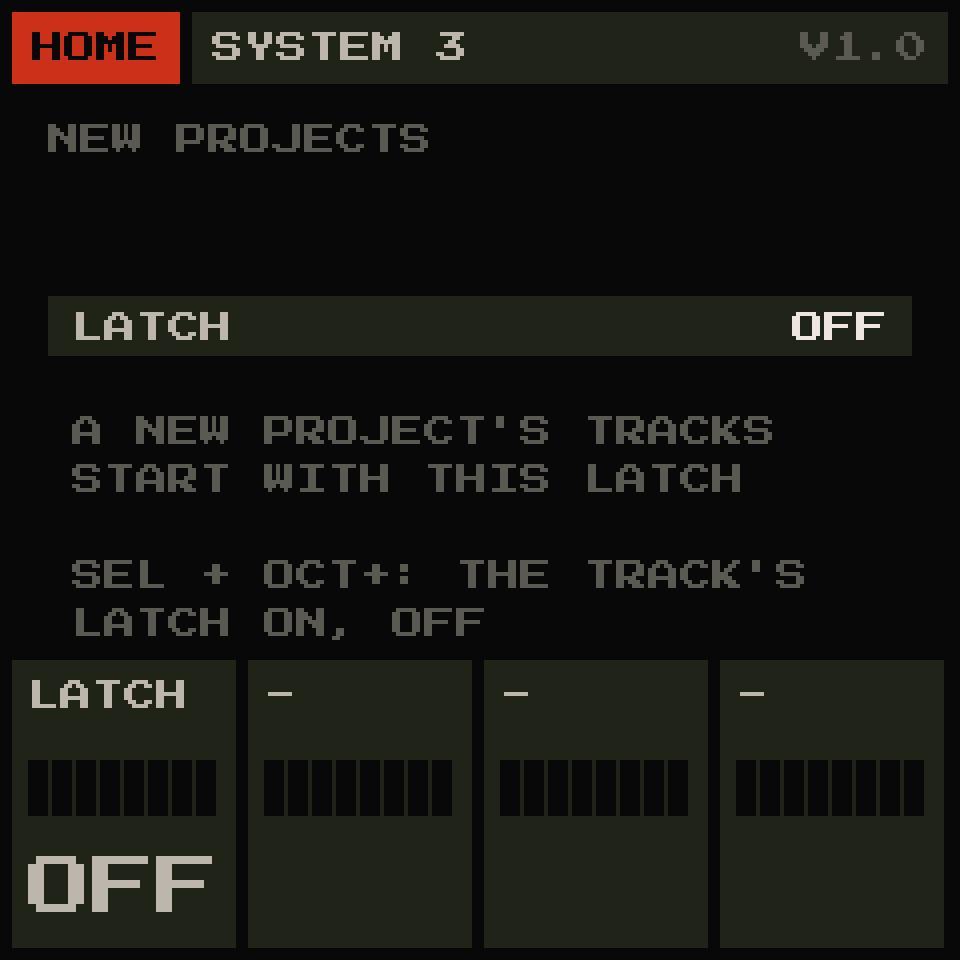
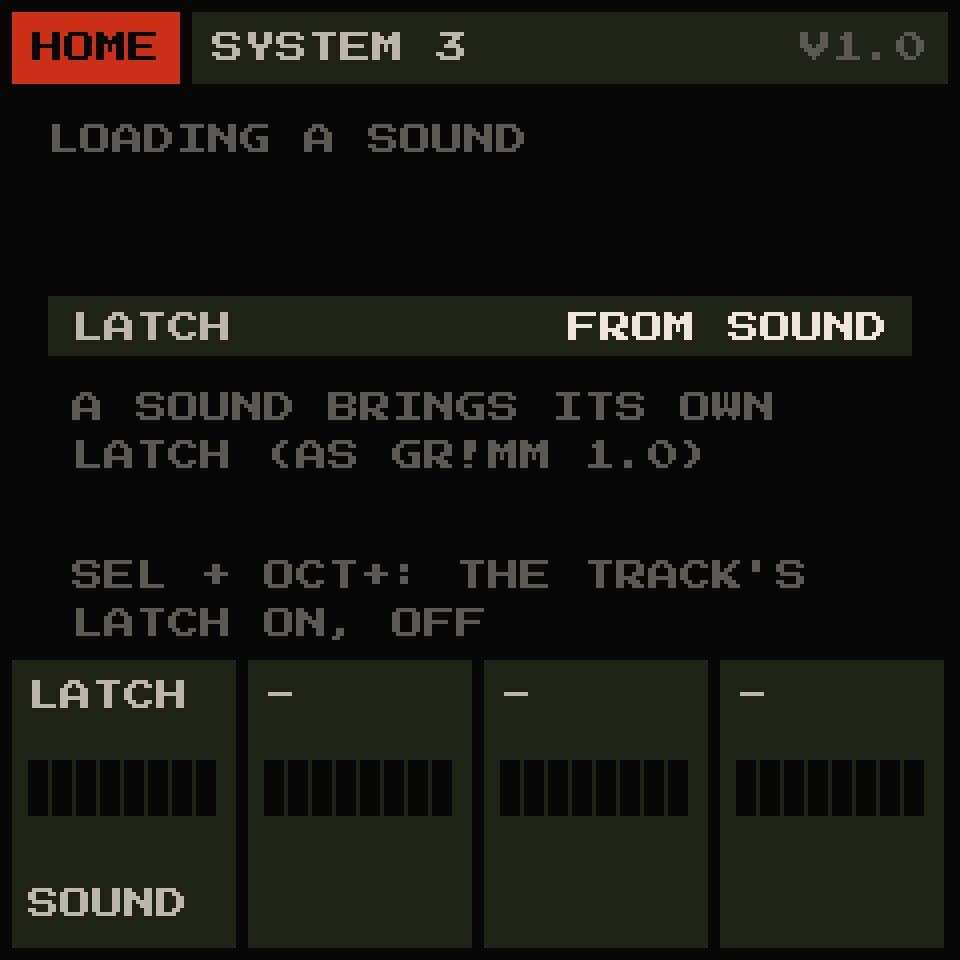
SYSTEM 3's LATCH: FROM SOUND / ALWAYS OFF (loading a sound never changes LATCH)
As asked: not a LATCH for NEW projects but what loading a sound does.
FROM SOUND (the default, as 1.0): a sound loaded brings the LATCH it was
saved with. ALWAYS OFF: loading a sound (PRESETS, SOUNDS' LOAD, the
editor's LOAD TO T1-T4) leaves the track's LATCH as it is, off unless
SEL + OCT+ latched it by hand. NEW is as in 1.0 again (tracks unlatched);
projects and slots keep what they were saved with. Settings byte 169: 0
FROM SOUND, 1 ALWAYS OFF; older settings load as FROM SOUND. SYSTEM 3's
screen, the editor page's SETTINGS, the manual and protocol to match.

diff --git a/web/editor.html b/web/editor.html
@@ -221,13 +221,14 @@ a.lnk { color: var(--l); }
       <div class="row"><button id="b-setread" class="go">READ FROM FM-1</button><button id="b-setwrite">WRITE TO FM-1</button></div>
       <div class="row"><label class="px" for="set-mch">MIDI CHANNEL</label><select id="set-mch"></select></div>
       <div class="row"><label class="px" for="set-clk">CLOCK</label><select id="set-clk"></select></div>
-      <div class="row"><label class="px" for="set-latch">LATCH (NEW PROJECTS)</label><select id="set-latch"></select></div>
+      <div class="row"><label class="px" for="set-latch">LATCH</label><select id="set-latch"></select></div>
       <p class="note">The FM-1's own settings (SYSTEM, SYSTEM 2, SYSTEM 3), not the project's. MIDI CHANNEL: 1-4 puts T1–T4 on
         channels 1–4 (up to 13-16); ALL &gt; SEL plays every channel on the selected track; CH n &gt; SEL plays only
         channel n on the selected track and ignores the others. CLOCK: INT, the FM-1's own tempo; INT+OUT, the same
         and its MIDI clock out over USB (START, STOP and 24 pulses a beat); USB or TRS, it follows the MIDI clock from
-        there (START, CONTINUE, STOP; the jack is MIDI IN only). LATCH: OFF or ON for the four tracks of a NEW project
-        (a sound you load brings its own LATCH). The same on the FM-1: SYSTEM's KNOB 2, SYSTEM 2's KNOB 4, SYSTEM 3's
+        there (START, CONTINUE, STOP; the jack is MIDI IN only). LATCH: FROM SOUND, a sound you load brings its own
+        LATCH (as GR!MM 1.0); ALWAYS OFF, loading a sound never changes a track's LATCH (it stays off unless you latch the
+        track by hand, SEL + OCT+). The same on the FM-1: SYSTEM's KNOB 2, SYSTEM 2's KNOB 4, SYSTEM 3's
         KNOB 1. READ first; WRITE changes only these three (the FM-1 stopped and silent). GR!MM 1.0 has no CLOCK, and
         no LATCH setting.</p>
     </section>

diff --git a/web/editor.js b/web/editor.js
@@ -777,7 +777,7 @@ function drawSettings() {
   m.textContent = c.textContent = l.textContent = "";
   MCH_NAMES.forEach((n, i) => { if (v2 || i <= 13) el("option", { value: i }, m, n); });
   CLOCK_NAMES.forEach((n, i) => el("option", { value: i }, c, n));
-  ["OFF", "ON"].forEach((n, i) => el("option", { value: i }, l, n));
+  ["FROM SOUND", "ALWAYS OFF"].forEach((n, i) => el("option", { value: i }, l, n));
   if (setBytes) { const s = settingsOf(setBytes); m.value = s.mch; c.value = s.clk; l.value = s.latch; }
   refreshButtons();
 }
@@ -794,7 +794,7 @@ $("b-setwrite").onclick = () => job("SETTINGS", async () => {
   setBytes = back;
   drawSettings();
   return `SETTINGS WRITTEN: MIDI CHANNEL ${MCH_NAMES[b[3]]}${b.length > SET_V1 ? ", CLOCK " + CLOCK_NAMES[b[SET_V1]] : ""}` +
-         (b.length > SET_V2 ? `, LATCH ${b[SET_V2] ? "ON" : "OFF"}` : "");
+         (b.length > SET_V2 ? `, LATCH ${b[SET_V2] ? "ALWAYS OFF" : "FROM SOUND"}` : "");
 });
 drawSettings();
 

diff --git a/web/editor_core.js b/web/editor_core.js
@@ -417,7 +417,7 @@ export const SET_V2 = 169;                                   // V2's version 2 (
 export const MCH_NAMES = [...Array.from({ length: 13 }, (_, k) => `${k + 1}-${k + 4}`), "ALL > SEL",
   ...Array.from({ length: 16 }, (_, k) => `CH ${k + 1} > SEL`)];
 export const CLOCK_NAMES = ["INT", "INT+OUT", "USB", "TRS"];
-export function settingsOf(b) {                              // -> { mch, clk, latch } (older: CLOCK INT, LATCH OFF)
+export function settingsOf(b) {                              // -> { mch, clk, latch } (older: CLOCK INT, LATCH FROM SOUND)
   return { mch: b[3], clk: b.length > SET_V1 ? b[SET_V1] : 0, latch: b.length > SET_V2 ? b[SET_V2] : 0 };
 }
 export function withSettings(b, s) {                         // a copy of b with MIDI CHANNEL, CLOCK and LATCH s

diff --git a/tests/quick_test.py b/tests/quick_test.py
@@ -1,10 +1,11 @@
 #!/usr/bin/env python3
 # SPDX-License-Identifier: GPL-3.0-only
 # Copyright (C) 2026 GR!MM
-"""GR!MM V2's quick wins in host mode (tests/run_host.sh): SYSTEM 3's LATCH (a NEW project's tracks; saved with the
-settings; older settings: OFF), SEL + OCT+ (the selected track's LATCH on, off: its latched notes released), REC held
-~1 s (the selected track's pattern cleared, undoable; REC as before; a short press as ever), SAVES WHEN SILENT said
-~2 s, then out of the way. Prints a line a check, exit 1 on a failure.
+"""GR!MM V2's quick wins in host mode (tests/run_host.sh): SYSTEM 3's LATCH (FROM SOUND: a sound loaded brings its
+own, as 1.0; ALWAYS OFF: loading never changes it; saved with the settings; older settings: FROM SOUND), SEL + OCT+
+(the selected track's LATCH on, off: its latched notes released), REC held ~1 s (the selected track's pattern cleared,
+undoable; REC as before; a short press as ever), SAVES WHEN SILENT said ~2 s, then out of the way. Prints a line a check, exit 1 on a
+failure.
   python3 tests/quick_test.py [build/host/grimm]"""
 import os
 import subprocess
@@ -53,32 +54,42 @@ def probes(*ts):
     return [(t, "probe") for t in ts]
 
 
-# SYSTEM 3: HOME held (SYSTEM), HOME, HOME; LATCH ON (saved: 170 B); HOME: SYSTEM again. Then NEW (SAVE, SAVE:
-# PROJECTS; ACTION NEW; OCT+): the four tracks LATCH ON
-ev = [(300, "down 8"), (1000, "up 8"), (1200, "btn 8"), (1400, "btn 8"), (1600, "enc 2 1"), (4000, "btn 8"),
-      (4500, "btn 9"), (4700, "btn 9"), (4900, "enc 5 3"), (5100, "btn 1")] + probes(1100, 1300, 1500, 1700, 4100, 4800, 5300)
-pr, out = run("sys3", ev, 5400)
+# SYSTEM 3: HOME held (SYSTEM), HOME, HOME; LATCH turned to ALWAYS OFF (saved: 170 B); HOME: SYSTEM again
+ev = [(300, "down 8"), (1000, "up 8"), (1200, "btn 8"), (1400, "btn 8"), (1600, "enc 2 1"), (4000, "btn 8")]
+pr, out = run("sys3", ev + probes(1100, 1300, 1500, 1700, 4100), 4200)
 check("HOME held, HOME, HOME: SYSTEM, SYSTEM 2, SYSTEM 3; HOME again: SYSTEM",
       [pr[t]["page"] for t in (1100, 1300, 1500, 4100)] == [PG_SYSTEM, PG_SYS2, PG_SYS3, PG_SYSTEM],
       [pr[t]["page"] for t in (1100, 1300, 1500, 4100)])
-check("SYSTEM 3's LATCH turned ON: set, saved with the settings (170 B)",
+check("SYSTEM 3's LATCH: FROM SOUND as set out; turned to ALWAYS OFF, saved with the settings (170 B)",
       pr[1500]["new"] == 0 and pr[1700]["new"] == 1 and "settings saved (170 B)" in out)
-check("LATCH ON: a project's tracks as they were until NEW", pr[4800]["latch"] == [0, 0, 0, 0], pr[4800]["latch"])
-check("NEW: the four tracks LATCH ON", pr[5300]["page"] == PG_PROJECTS and pr[5300]["latch"] == [1, 1, 1, 1],
-      f"page {pr[5300]['page']} latch {pr[5300]['latch']}")
-pr, _ = run("new_off", [(4500, "btn 9"), (4700, "btn 9"), (4900, "enc 5 3"), (5100, "btn 1")] + probes(5300), 5400)
-check("LATCH OFF (as set out): NEW's tracks LATCH OFF, as in 1.0", pr[5300]["latch"] == [0, 0, 0, 0], pr[5300]["latch"])
+# a sound loaded (PRESETS: CRYPT PAD, saved with LATCH ON)
+PRESET = [(300, "enc 6 1")]
+pr, _ = run("snd_from", PRESET + probes(500), 600)
+check("FROM SOUND (as 1.0): a sound loaded brings its LATCH (CRYPT PAD: ON)", pr[500]["latch"][0] == 1, pr[500]["latch"])
+pr, _ = run("snd_off", PRESET + probes(500), 600, settings("off", latch=1))
+check("ALWAYS OFF: CRYPT PAD loaded, the track's LATCH stays OFF", pr[500]["latch"][0] == 0, pr[500]["latch"])
+pr, _ = run("snd_hand", [(300, "down 3"), (400, "btn 1"), (500, "up 3"), (700, "enc 6 1"), (900, "enc 6 1"),
+                         (1100, "enc 6 -1")] + probes(600, 1200), 1300, settings("off", latch=1))
+check("ALWAYS OFF: latched by hand (SEL + OCT+), sounds loaded: still latched (loading never changes it)",
+      pr[600]["latch"][0] == 1 and pr[1200]["latch"][0] == 1, f"{pr[600]['latch']} {pr[1200]['latch']}")
+NEW = [(1500, "btn 9"), (1700, "btn 9"), (1900, "enc 5 3"), (2100, "btn 1")]
+for name, env in (("from", None), ("off", settings("off", latch=1))):
+    pr, _ = run(f"new_{name}", [(300, "down 3"), (400, "btn 1"), (500, "up 3")] + NEW + probes(600, 2300), 2400, env)
+    check(f"{'ALWAYS OFF' if env else 'FROM SOUND'}: NEW's tracks LATCH OFF, as in 1.0",
+          pr[600]["latch"][0] == 1 and pr[2300]["page"] == PG_PROJECTS and pr[2300]["latch"] == [0, 0, 0, 0],
+          f"{pr[600]['latch']} {pr[2300]['latch']}")
 
-# the settings saved before: V2's version 2 (169 B) and V1.0's (168 B) load with LATCH OFF; version 3's as saved
+# the settings saved before: V2's version 2 (169 B) and V1.0's (168 B) load as FROM SOUND; version 3's as saved
 v1 = bytearray(168)
 v1[0:7] = bytes([1, 256 - 12, 2, 5, 1, 1, 0])
 v1[167] = 1
 for name, blob, want in (("v1", bytes(v1), 0), ("v2", bytes(v1[:167]) + bytes([2, 2]), 0),
-                         ("v3", bytes(v1[:167]) + bytes([3, 2, 1]), 1), ("v3off", bytes(v1[:167]) + bytes([3, 2, 0]), 0)):
+                         ("v3", bytes(v1[:167]) + bytes([3, 2, 1]), 1), ("v3from", bytes(v1[:167]) + bytes([3, 2, 0]), 0)):
     f = OUT / f"settings_{name}.bin"
     f.write_bytes(blob)
     pr, out = run(f"settings_{name}", probes(1000), 1100, dict(os.environ, GRIMM_SETTINGS_IN=str(f)))
-    check(f"settings {name} ({len(blob)} B): LATCH {'ON' if want else 'OFF'}", pr[1000]["new"] == want, pr[1000]["new"])
+    check(f"settings {name} ({len(blob)} B): LATCH {'ALWAYS OFF' if want else 'FROM SOUND'}", pr[1000]["new"] == want,
+          pr[1000]["new"])
 
 # SEL held + OCT+: T1's LATCH ON (no page change, no chord mode); a key then latches its note; again: OFF, the note let go
 ev = [(300, "down 3"), (400, "btn 1"), (500, "up 3"), (700, "keys 0x80"), (800, "keys 0"), (1000, "down 3"),
@@ -131,5 +142,7 @@ check("~2 s on: still waiting (no save), the header given back",
 w2 = [t for t in sorted(pr) if t > 9400 and pr[t]["wait"]]
 check("PLAY, STOP: a new wait, said again (~2 s)", bool(w2) and pr[w2[0]]["said"] == 1 and
       not pr[min(14900, w2[0] + 2200)]["said"], w2[:1])
+
+
 print("quick test: passed" if not bad else "quick test: FAILED")
 sys.exit(1 if bad else 0)

diff --git a/firmware/src/grimm.c b/firmware/src/grimm.c
@@ -53,8 +53,9 @@
  *              running, the first touch only wakes it), HOME again: SYSTEM 2 (MIDI LEARN: LEARN, a knob turned on any
  *              page, then a CC: linked, 32 at most; CLEAR ALL + OCT+; OCT- cancels; SEQ MIDI OUT: the steps' and the
  *              arps' notes out on their tracks' channels too; SAMPLES: RESTORE + OCT+ writes the four factory
- *              samples over the slots, OCT- keeps them), HOME again: SYSTEM 3 (V2: LATCH: the LATCH a NEW project's
- *              tracks start with); the FM-1's settings, not the project's
+ *              samples over the slots, OCT- keeps them), HOME again: SYSTEM 3 (V2: LATCH: FROM SOUND, a sound
+ *              loaded brings its own LATCH, as 1.0; ALWAYS OFF, loading a sound never changes the track's LATCH, off
+ *              unless SEL + OCT+ latched it); the FM-1's settings, not the project's
  *   SAVE       SOUNDS (64 slots: a track's source, its four, ENV, LATCH (FM: its own patch); SLOT, CATEGORY, TYPE (the list by source),
  *              ACTION; playing: SAVE / CLEAR wait for the stop) -> PROJECTS (the slots A..D: the four tracks' sounds,
  *              sequences and the mixer; SLOT, ACTION LOAD / SAVE / ERASE / NEW); OCT+ does the ACTION, OCT- backs out;
@@ -715,7 +716,8 @@ static struct {
                                                  * the section) */
     uint8_t ver;                                /* SET_VER (steps 20..24 saved without it: their links moved, sys_load) */
     uint8_t clk;                                /* (V2, SET_VER 2) CLOCK: CK_INT .. CK_TRS; V1.0's settings: INT */
-    uint8_t latch;                              /* (V2, SET_VER 3) SYSTEM 3's LATCH: a NEW project's tracks'; before: OFF */
+    uint8_t latch;                              /* (V2, SET_VER 3) SYSTEM 3's LATCH: 0 FROM SOUND (before: so), 1
+                                                 * ALWAYS OFF */
 } set;
 #define SET_VER 3u
 static uint32_t set_dirty, set_t;               /* the settings changed, when */
@@ -1412,7 +1414,7 @@ static void sys_sync(void)
     ck_mode = set.clk, rt_usb_fast = set.clk == CK_USB;   /* (CLOCK: the audio ISR's, platform.c's) */
     ui_acc = UI_ACCENTS[set.col & 3u];
     tune_f = (set.tune * 23666 + set.tune * set.tune * 7) / 10000;   /* (2^(c / 1200) - 1, x 4096) */
-    mo_seq = set.out, new_latch = set.latch;
+    mo_seq = set.out, snd_latch_off = set.latch;
 }
 static void sys_load(void)                      /* the settings at power-on into SYSTEM's knobs (version 19's: the
                                                  * octave alone; steps 20..24's: no ver, their links to HOME's T1..T4

diff --git a/firmware/src/store.c b/firmware/src/store.c
@@ -315,6 +315,8 @@ static int snd_save(uint32_t i, uint32_t t, uint32_t cat)   /* track t's sound i
     return snd_put(i, r);
 }
 static int snd_clear(uint32_t i) { return snd_put(i, 0); }
+static uint8_t snd_latch_off;                   /* (V2) SYSTEM 3's LATCH ALWAYS OFF: a sound loaded leaves the track's
+                                                 * LATCH as it is (grimm.c's sys_sync) */
 static void snd_apply(const uint8_t *r, uint32_t t)   /* a sound record into track t (a new source: its notes go over) */
 {
     uint32_t k, e = r[3];
@@ -322,8 +324,10 @@ static void snd_apply(const uint8_t *r, uint32_t t)   /* a sound record into tra
         trk[t].p[e][k] = r[4 + k];
         trk[t].env[k] = r[8 + k];
     }
-    if (trk[t].latch && !r[12]) nq_put(NQ_RELEASE, t, 0);   /* (LATCH ON -> OFF: its latched notes released) */
-    trk[t].latch = r[12];
+    if (!snd_latch_off) {                       /* (V2: SYSTEM 3's ALWAYS OFF: the track's LATCH as it is) */
+        if (trk[t].latch && !r[12]) nq_put(NQ_RELEASE, t, 0);   /* (LATCH ON -> OFF: its latched notes released) */
+        trk[t].latch = r[12];
+    }
     ch_unpack(t, r[13]);
     lfo_uk(r + 14, t);                          /* (saved before the LFO: zeros, DEPTH 0) */
     if (e == ENG_FM) uk_fm(snd_fname(r) ? 0 : r + 18, t);   /* (FM: its patch; a factory sound's: the PATCH as built) */
@@ -762,7 +766,6 @@ static void slot_apply_isr(uint32_t s)          /* the audio ISR, at the bar (se
     uk_slot(slots[s & 3u], 1);
     slot_cur = (int32_t)(s & 3u);
 }
-static uint8_t new_latch;                       /* (V2) SYSTEM 3's LATCH: a NEW project's tracks' (grimm.c's sys_sync) */
 static void project_new(void)                   /* NEW: the four tracks' power-on sounds, empty sequences */
 {
     static const track_t T0 = TRK_DEF;
@@ -772,7 +775,7 @@ static void project_new(void)                   /* NEW: the four tracks' power-o
             for (k = 0; k < 4u; k++) trk[t].p[e][k] = T0.p[e][k];
         for (k = 0; k < 4u; k++) trk[t].env[k] = T0.env[k];
         if (trk[t].latch) nq_put(NQ_RELEASE, t, 0);
-        trk[t].latch = new_latch;               /* (V2: SYSTEM 3's LATCH; OFF as TRK_DEF's, as V1.0's NEW) */
+        trk[t].latch = T0.latch;
         trk[t].chord = T0.chord, trk[t].ch_type = T0.ch_type, trk[t].ch_voice = T0.ch_voice;
         trk[t].arp = T0.arp, trk[t].arp_mode = T0.arp_mode, trk[t].arp_rate = T0.arp_rate;
         trk[t].arp_oct = T0.arp_oct, trk[t].arp_gate = T0.arp_gate;

diff --git a/firmware/src/ui.c b/firmware/src/ui.c
@@ -330,7 +330,7 @@ static void ui_slab_make(uint32_t k, slab_t *S)
         put_s(S->val, k == 2u ? (v ? "RESTORE" : "KEEP") : k ? (v ? "ON" : "OFF") : v == LEARN_CLEAR ? "CLEAR" :
               LEARN_NAME[clamp(v, 0, 2)]);
         return;
-    case PG_SYS3: put_s(S->val, v ? "ON" : "OFF"); return;   /* (V2) LATCH */
+    case PG_SYS3: put_s(S->val, v ? "OFF" : "SOUND"); return;   /* (V2) LATCH: FROM SOUND, ALWAYS OFF */
     case PG_SOUNDS:
         if (k == 0u) { ui_3(S->val, (uint32_t)v + 1u); return; }
         if (k == 1u) { ui_squeeze(S->val, CAT_NAME[clamp(v, 0, NCAT - 1)]); return; }
@@ -1573,10 +1573,10 @@ static void pic_sys2(void)
 
 static void pic_sys3(void)                      /* (V2) SYSTEM 3: LATCH, what it does; the combo for the track's */
 {
-    ui_caption("NEW PROJECTS", 0);
-    sys_row(0, "LATCH", set.latch ? "ON" : "OFF");
-    ui_text(PX0 + 6, 104, "A NEW PROJECT'S TRACKS", 1, UI_M);
-    ui_text(PX0 + 6, 116, "START WITH THIS LATCH", 1, UI_M);
+    ui_caption("LOADING A SOUND", 0);
+    sys_row(0, "LATCH", set.latch ? "ALWAYS OFF" : "FROM SOUND");
+    ui_text(PX0 + 6, 98, set.latch ? "LOADING A SOUND NEVER" : "A SOUND BRINGS ITS OWN", 1, UI_M);
+    ui_text(PX0 + 6, 110, set.latch ? "CHANGES THE LATCH" : "LATCH (AS GR!MM 1.0)", 1, UI_M);
     ui_text(PX0 + 6, 140, "SEL + OCT+: THE TRACK'S", 1, UI_M);
     ui_text(PX0 + 6, 152, "LATCH ON, OFF", 1, UI_M);
 }

diff --git a/MANUAL.md b/MANUAL.md
@@ -76,7 +76,7 @@ Press **HOME** again for the mixer pages:
 - **LATCH OFF:** a note sounds while you hold the key, like a normal keyboard.
 - **LATCH ON:** press once to start a note, press again to stop it. For drones.
 - **Hold SEL + OCT+** switches the selected track's LATCH on or off from any page, while you play. Switching it off lets go of the latched notes.
-- A NEW project's tracks start with SYSTEM 3's LATCH (OFF unless you change it). A sound you load brings its own LATCH.
+- A sound you load brings its own LATCH, as in GR!MM 1.0, unless SYSTEM 3's LATCH is set to ALWAYS OFF: then loading a sound never changes the track's LATCH.
 
 ### SOUND page: the source's four knobs
 
@@ -328,7 +328,10 @@ FREEZE is the exception: tap it to hold the grain cloud, tap again to release.
   - `INT+OUT` (`I+OUT` on the knob): the same, and the FM-1 sends MIDI clock over USB: 24 pulses a beat (also while stopped), START when you press PLAY (it starts on the next pulse), STOP when it stops. Set your DAW to follow it.
   - `USB` or `TRS`: the FM-1 follows the MIDI clock coming in over USB or the TRS jack. START plays from step 1, CONTINUE carries on where STOP left it, STOP stops; PLAY and STOP on the FM-1 still work (PLAY starts on the next pulse). HOME shows `EXT` and the tempo it measures; SELECT and PRESETS don't change the tempo meanwhile. The arp, song mode and slots changed "at the next bar" all follow the clock. If the clock stops for half a second, the FM-1 carries on at its own tempo.
 - SYSTEM 2 also shows the processor load (CPU NOW / PEAK). OCT− + OCT+ together resets PEAK.
-- **LATCH** (SYSTEM 3): OFF or ON, the LATCH that a NEW project's four tracks start with. Tracks you already have keep theirs, and a sound you load brings its own. To switch the selected track's LATCH while you play, hold **SEL + OCT+**.
+- **LATCH** (SYSTEM 3): what loading a sound does to a track's LATCH.
+  - `FROM SOUND` (`SOUND` on the knob; the default, as GR!MM 1.0): the sound brings the LATCH it was saved with.
+  - `ALWAYS OFF` (`OFF` on the knob): loading a sound never changes the track's LATCH, so every sound plays unlatched, whatever was saved in it. You can still latch a track by hand with **SEL + OCT+** (it then stays latched when you load another sound).
+  - Projects and slots A–D keep the LATCH they were saved with, and a NEW project's tracks start unlatched.
 
 ---
 
@@ -388,7 +391,7 @@ Turn **PRESETS** to step through them by category, then your own.
 - **SOUNDS:** your 64 slots and the 40 factory sounds; **LOAD TO T1–T4** puts one on a track. Rename, clear, import and export single sounds.
 - **SAMPLES:** drop a WAV on a slot and **UPLOAD** it; **RESTORE FACTORY SAMPLES**.
 - **FX:** the project's effects (TAPE, GRAIN, DELAY, SPACE, MASTER, DRIVE) and each track's filter TYPE and POS, live: **READ FROM FM-1**, then every move plays on the FM-1 at once.
-- **SETTINGS:** MIDI CHANNEL, CLOCK and LATCH (for new projects), read from the FM-1 and written back (the rest of the settings stay as they are).
+- **SETTINGS:** MIDI CHANNEL, CLOCK and LATCH (FROM SOUND / ALWAYS OFF), read from the FM-1 and written back (the rest of the settings stay as they are).
 - **BACKUP:** one file with all your sounds, slots A–D, settings and the four sample slots, and a restore that makes a backup of what's there first. A restore puts the samples back too; a slot that already holds the same sample isn't written again, and a slot that was empty in the backup is emptied. Backups from GR!MM 1.0 (they have no samples) restore too and leave your samples as they are.
 
 The FM-1 only writes to its memory (store, upload, restore) while the sequencer is stopped and nothing sounds; the editor tells you when to wait. Nothing is written without you pressing a button.

diff --git a/docs/EDITOR_PROTOCOL.md b/docs/EDITOR_PROTOCOL.md
@@ -207,10 +207,10 @@ step n's 4 bits in byte 256 + n / 2, the low nibble for even n, the high for odd
 | 7–166 | 32 links of 5 bytes, the oldest first: CC, page, knob (0–3), track (0–3), x (SOUND: the source; GRID: the step; SONG: the section; FM ALGO's FINE, FM OP: the operator) |
 | 167 | the settings' version (3; GR!MM 1.0's: 1; V2's first builds': 2) |
 | 168 | CLOCK (V2): 0 INT, 1 INT+OUT, 2 USB, 3 TRS |
-| 169 | LATCH (V2, SYSTEM 3; version 3): 0 OFF, 1 ON, the LATCH a NEW project's tracks start with |
+| 169 | LATCH (V2, SYSTEM 3; version 3): 0 FROM SOUND (a sound loaded brings its own LATCH, as 1.0), 1 ALWAYS OFF (loading a sound never changes a track's LATCH) |
 
-A PUT of the settings also takes GR!MM 1.0's 168 bytes (version 1): they apply with CLOCK INT and LATCH OFF, so a
-backup of then restores; and version 2's 169 bytes (LATCH OFF).
+A PUT of the settings also takes GR!MM 1.0's 168 bytes (version 1): they apply with CLOCK INT and LATCH FROM SOUND,
+so a backup of then restores; and version 2's 169 bytes (LATCH FROM SOUND).
 
 Pages (a link's page): 0 SOUND, 1 SOURCE, 2 ENV, 3 LFO, 4 SCALE, 5 CHORD, 6 SONG, 7 HOME, 8 MIXER 1, 9 MIXER 2,
 14 ARP, 15 GRID, 16 PATTERN SETTINGS, 17 TAPE, 18 GRAIN, 19 DELAY, 20 SPACE, 23 FM ALGO, 24 FM OP, 25 MASTER, 26 DRIVE
